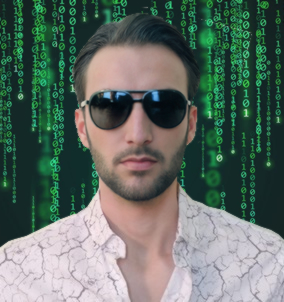
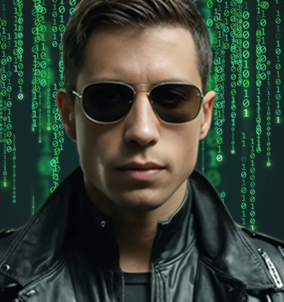
New sfx and prof pic. New sound and light sparkle added on toggle img

diff --git a/index.js b/index.js
@@ -1,21 +1,30 @@
 const d = document;
-//Establecer todo el js en la carga del dom:
+//Establecer todo el js después de la carga del dom:
 d.addEventListener('DOMContentLoaded', (e) => {
-  //Inicializando timeout global
+  //Variables de uso global:
   let timeout = 0;
   console.log('Timeout Initialized!');
+  //Selectores de uso global
+  const $cajaCentral = d.getElementById('caja-central'),
+    $cajaCara = d.querySelector('#caja-cara img:nth-child(2)'),
+    $audioEffect1 = d.createElement('audio'),
+    $audioToggleBtn = d.querySelector('#audio-toggle');
+  $audioEffect1.src = 'toggleImg.mp3';
+  d.body.appendChild($audioEffect1);
+
   //Evitar el long press en mobile
   d.addEventListener('contextmenu', function (event) {
     event.preventDefault();
     if (window.innerWidth > 630) {
       const guiterGif = d.getElementById('guitar-gif');
       guiterGif.style.display = 'block';
-      const cajaCentral = d.getElementById('caja-central');
-      const computedStyle = window.getComputedStyle(cajaCentral);
-      // Obtener el ancho exacto de cajaCentral en píxeles
-      const cajaCentralWidth = parseFloat(computedStyle.width);
-      // Establecer el ancho de gifAnimado con el ancho de cajaCentral
-      guiterGif.style.width = cajaCentralWidth + 'px';
+      const computedStyle = window.getComputedStyle($cajaCentral);
+
+      // Obtener el ancho exacto de $cajaCentral en píxeles
+      const $cajaCentralWidth = parseFloat(computedStyle.width);
+
+      // Establecer el ancho de gifAnimado con el ancho de $cajaCentral
+      guiterGif.style.width = $cajaCentralWidth + 'px';
       clearTimeout(timeout);
       console.log('Timeout cleared');
       timeout = setTimeout(() => {
@@ -24,8 +33,10 @@ d.addEventListener('DOMContentLoaded', (e) => {
       }, 3000);
     }
   });
+
   //Inicializando interval global
   let interval = 0;
+
   //Funcion de cambio de prof-pic
   const imgToggle = () => {
     const pp = d.querySelector('#profile-pic');
@@ -38,6 +49,7 @@ d.addEventListener('DOMContentLoaded', (e) => {
       pph.src = 'prof-pic-hover.jpg';
     }
   };
+
   //Reemplazo de prof-pic por tiempo
   const imgInterval = (mode) => {
     clearInterval(interval);
@@ -49,21 +61,40 @@ d.addEventListener('DOMContentLoaded', (e) => {
     console.log('Interval Created!');
   };
   imgInterval('Create');
+
+  //Funcion de efecto en toggleImg
+  const imgToggleEffect = () => {
+    if ($audioToggleBtn.classList.contains('fa-volume-high')) {
+      $audioEffect1.play();
+    }
+    if (window.innerWidth > 630) {
+      $cajaCentral.style.boxShadow = '0 0 50px 1px white';
+      const timeout = setTimeout(() => {
+        $cajaCentral.style.boxShadow = '0 0 20px 10px rgba(0, 0, 0, 0.368)';
+      }, 200);
+    } else {
+      $cajaCentral.style.boxShadow = '0 0 20px 10px rgba(0, 0, 0, 0)';
+      $cajaCara.style.boxShadow = '0 0 20px 3px white';
+      const timeout = setTimeout(() => {
+        $cajaCara.style.boxShadow = '0 0 20px 10px rgba(0, 0, 0, 0.156)';
+      }, 200);
+    }
+  };
+
   //Manejo del boton change para prof-pic
   const $changeImg = d.querySelector('#img-toggle');
   d.addEventListener('click', (e) => {
     if (e.target.matches('#img-toggle')) {
       imgInterval('Create');
       imgToggle();
+      imgToggleEffect();
     }
   });
 
   //Manejo del botón de sonido
   const profilePicSound = () => {
-    let soundTempo;
-    const $audioToggleBtn = d.querySelector('#audio-toggle'),
-      $sound = d.querySelector('#profile-audio'),
-      $suggestiveArrow = d.querySelector('.fa-arrow-up');
+    const $sound = d.querySelector('#profile-audio'),
+      $suggestiveArrow = d.querySelector('#suggestive-arrow');
     d.addEventListener('click', (e) => {
       if (e.target.matches('#audio-toggle')) {
         $suggestiveArrow.style.display = 'none';
@@ -71,6 +102,7 @@ d.addEventListener('DOMContentLoaded', (e) => {
         $audioToggleBtn.classList.toggle('fa-volume-xmark');
       }
     });
+
     //Manejo del sonido al hacer hover y msje condicional
     d.addEventListener('mouseover', (e) => {
       if (e.target.matches('img#profile-pic')) {
@@ -102,9 +134,18 @@ d.addEventListener('DOMContentLoaded', (e) => {
     }
   });
 
-  //
+  //Scroll to top del #a-ver
   d.addEventListener('click', (e) => {
     if (e.target.matches('#a-ver')) {
+      window.scrollTo({
+        behavior: 'smooth',
+        top: 0,
+      });
+    }
+  });
+  //Scroll to top general
+  d.addEventListener('click', (e) => {
+    if (e.target.matches('#scroll-to-top')) {
       window.scrollTo({
         behavior: 'smooth',
         top: 0,

diff --git a/index.html b/index.html
@@ -26,7 +26,7 @@
     <section id="seccion-presentacion">
         <i id="img-toggle" class="fa-solid fa-arrows-rotate" data-aos="fade-in"></i>
         <i id="audio-toggle" class="fa-solid fa-volume-xmark" data-aos="fade-in"></i>
-        <i class="fa-solid fa-arrow-up fa-bounce fa-lg"></i>
+        <i id="suggestive-arrow" class="fa-solid fa-arrow-up fa-bounce fa-lg"></i>
         <audio id="profile-audio" src="profile-pic-sound.mp3"></audio>
         <img src="guitar.gif" alt="GIF animado, guitarra se convierte en hacha" id="guitar-gif">
         <div id="caja-central" data-aos="zoom-in">
@@ -72,7 +72,8 @@
         <h2 data-aos="zoom-in" data-aos-offset="40">Aptitudes</h2>
         <p data-aos="zoom-in" data-aos-offset="40">
             Estas son algunas de las tecnologías en las que tengo conocimientos y algunas otras aptitudes:
-        <ul>
+            <!-- Las aptitudes si se siguen sumando quizas es mejor en cuadros, podria unificarlo con los de la siguiente sección -->
+        <ul> 
             <li data-aos="zoom-in" data-aos-offset="40">Microsoft Excel: Nivel intermedio (con conocimiento en VBA para Macros).</li>
             <li data-aos="zoom-in" data-aos-offset="40">Microsoft Word: Nivel avanzado.</li>
             <li data-aos="zoom-in" data-aos-offset="40">Adobe Fireworks: Nivel avanzado.</li>
@@ -84,7 +85,8 @@
             <li data-aos="zoom-in" data-aos-offset="40">HTML 5, CSS 3: Nivel intermedio.</li>
             <li data-aos="zoom-in" data-aos-offset="40">JavaScript: Nivel intermedio.</li>
             <li data-aos="zoom-in" data-aos-offset="40">DOM, BOM, AJAX, Rest API, Fetch, Axios, Wordpress API, SPA, Reactividad</li>
-            <li data-aos="zoom-in" data-aos-offset="40">Estudiando React JS</li>
+            <li data-aos="zoom-in" data-aos-offset="40">React JS: Nivel básico</li>
+            <li data-aos="zoom-in" data-aos-offset="40">Redux: Nivel básico</li>
             <li data-aos="zoom-in" data-aos-offset="40">Inglés: Nivel avanzado.</li>
         </ul>
         </p>
@@ -170,7 +172,9 @@
                 <img src="github.jpg" class="red-social" alt="github">
             </a>
         </div>
+        <i id= 'scroll-to-top' class="fa-solid fa-arrow-up fa-lg"></i>
     </footer>
+    <!-- Scripts cargan al final -->
     <script src="https://kit.fontawesome.com/820780c31f.js" crossorigin="anonymous"></script>
     <script src="https://unpkg.com/aos@2.3.1/dist/aos.js"></script>
     <script>

diff --git a/estilos.css b/estilos.css
@@ -70,7 +70,7 @@ div {
   z-index: 1;
 }
 
-.fa-arrow-up {
+#suggestive-arrow {
   color: #808080;
   position: absolute;
   top: 80px;
@@ -103,6 +103,7 @@ div {
   border-radius: 20px;
   overflow: hidden;
   box-shadow: 0 0 20px 10px rgba(0, 0, 0, 0.368);
+  transition: box-shadow 100ms ease-in-out;
 }
 
 #caja-cara {
@@ -116,7 +117,7 @@ div {
 #caja-cara img {
   position: absolute;
   height: 100%;
-  transition: opacity 2.8s ease-in-out;
+  transition: opacity 2.8s ease-in-out, box-shadow 100ms ease-in-out;
 }
 
 img#profile-pic:hover {
@@ -266,6 +267,7 @@ footer {
   font-weight: lighter;
   height: 25vh;
   padding-bottom: 30px;
+  position: relative;
 }
 
 #contacto {
@@ -283,6 +285,14 @@ footer {
   }
 }
 
+#scroll-to-top {
+  position: absolute;
+  top: 50%;
+  right: 15%;
+  cursor: pointer;
+  padding: 10px;
+}
+
 @media (max-width: 630px) {
   #seccion-presentacion {
     height: fit-content;
@@ -291,6 +301,19 @@ footer {
 
   #guitar-gif {
     display: none;
+  }
+
+  #img-toggle {
+    padding: 25px;
+  }
+
+  #audio-toggle {
+    padding: 25px;
+  }
+
+  #suggestive-arrow {
+    top: 100px;
+    right: 51px;
   }
 
   #caja-central {
@@ -313,7 +336,7 @@ footer {
     position: absolute;
     border-radius: 200px;
     max-width: 70%;
-    box-shadow: 0 0 20px 10px rgba(0, 0, 0, 0.367);
+    box-shadow: 0 0 20px 10px rgba(0, 0, 0, 0.156);
     z-index: 1;
   }
 
@@ -415,5 +438,11 @@ footer {
 
   .red-social {
     height: 3rem;
+  }
+
+  #scroll-to-top {
+    top: 50px;
+    right: 50px;
+    padding: 10px;
   }
 }
